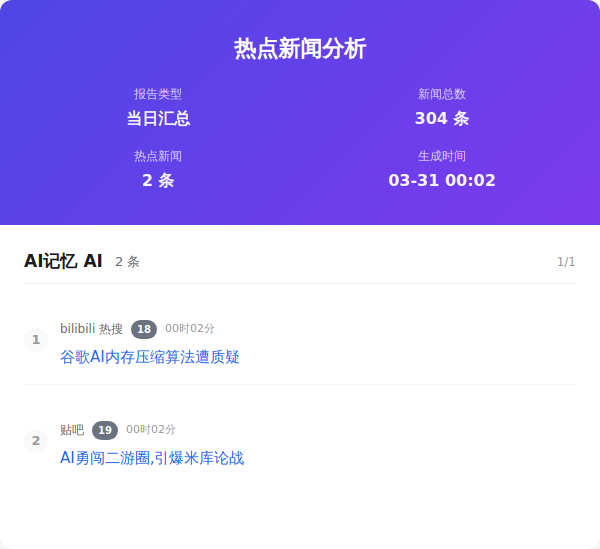
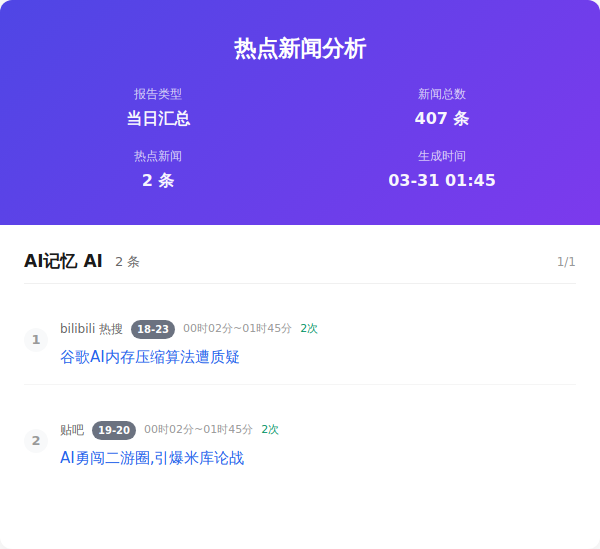
Auto update by GitHub Actions at Tue Mar 31 01:45:46 CST 2026

diff --git a/output/2026年03月31日/html/当日汇总.html b/output/2026年03月31日/html/当日汇总.html
@@ -357,7 +357,7 @@
                     </div>
                     <div class="info-item">
                         <span class="info-label">新闻总数</span>
-                        <span class="info-value">304 条</span>
+                        <span class="info-value">407 条</span>
                     </div>
                     <div class="info-item">
                         <span class="info-label">热点新闻</span>
@@ -365,7 +365,7 @@
                     </div>
                     <div class="info-item">
                         <span class="info-label">生成时间</span>
-                        <span class="info-value">03-31 00:02</span>
+                        <span class="info-value">03-31 01:45</span>
                     </div>
                 </div>
             </div>
@@ -383,7 +383,7 @@
                         <div class="news-number">1</div>
                         <div class="news-content">
                             <div class="news-header">
-                                <span class="source-name">bilibili 热搜</span><span class="rank-num ">18</span><span class="time-info">00时02分</span>
+                                <span class="source-name">bilibili 热搜</span><span class="rank-num ">18-23</span><span class="time-info">00时02分~01时45分</span><span class="count-info">2次</span>
                             </div>
                             <div class="news-title"><a href="https://search.bilibili.com/all?keyword=%E8%B0%B7%E6%AD%8CAI%E5%86%85%E5%AD%98%E5%8E%8B%E7%BC%A9%E7%AE%97%E6%B3%95%E9%81%AD%E8%B4%A8%E7%96%91" target="_blank" class="news-link">谷歌AI内存压缩算法遭质疑</a>
                             </div>
@@ -393,7 +393,7 @@
                         <div class="news-number">2</div>
                         <div class="news-content">
                             <div class="news-header">
-                                <span class="source-name">贴吧</span><span class="rank-num ">19</span><span class="time-info">00时02分</span>
+                                <span class="source-name">贴吧</span><span class="rank-num ">19-20</span><span class="time-info">00时02分~01时45分</span><span class="count-info">2次</span>
                             </div>
                             <div class="news-title"><a href="https://tieba.baidu.com/hottopic/browse/hottopic?topic_id=28352478&amp;amp;topic_name=AI%E5%8B%87%E9%97%AF%E4%BA%8C%E6%B8%B8%E5%9C%88%2C%E5%BC%95%E7%88%86%E7%B1%B3%E5%BA%93%E8%AE%BA%E6%88%98" target="_blank" class="news-link">AI勇闯二游圈,引爆米库论战</a>
                             </div>